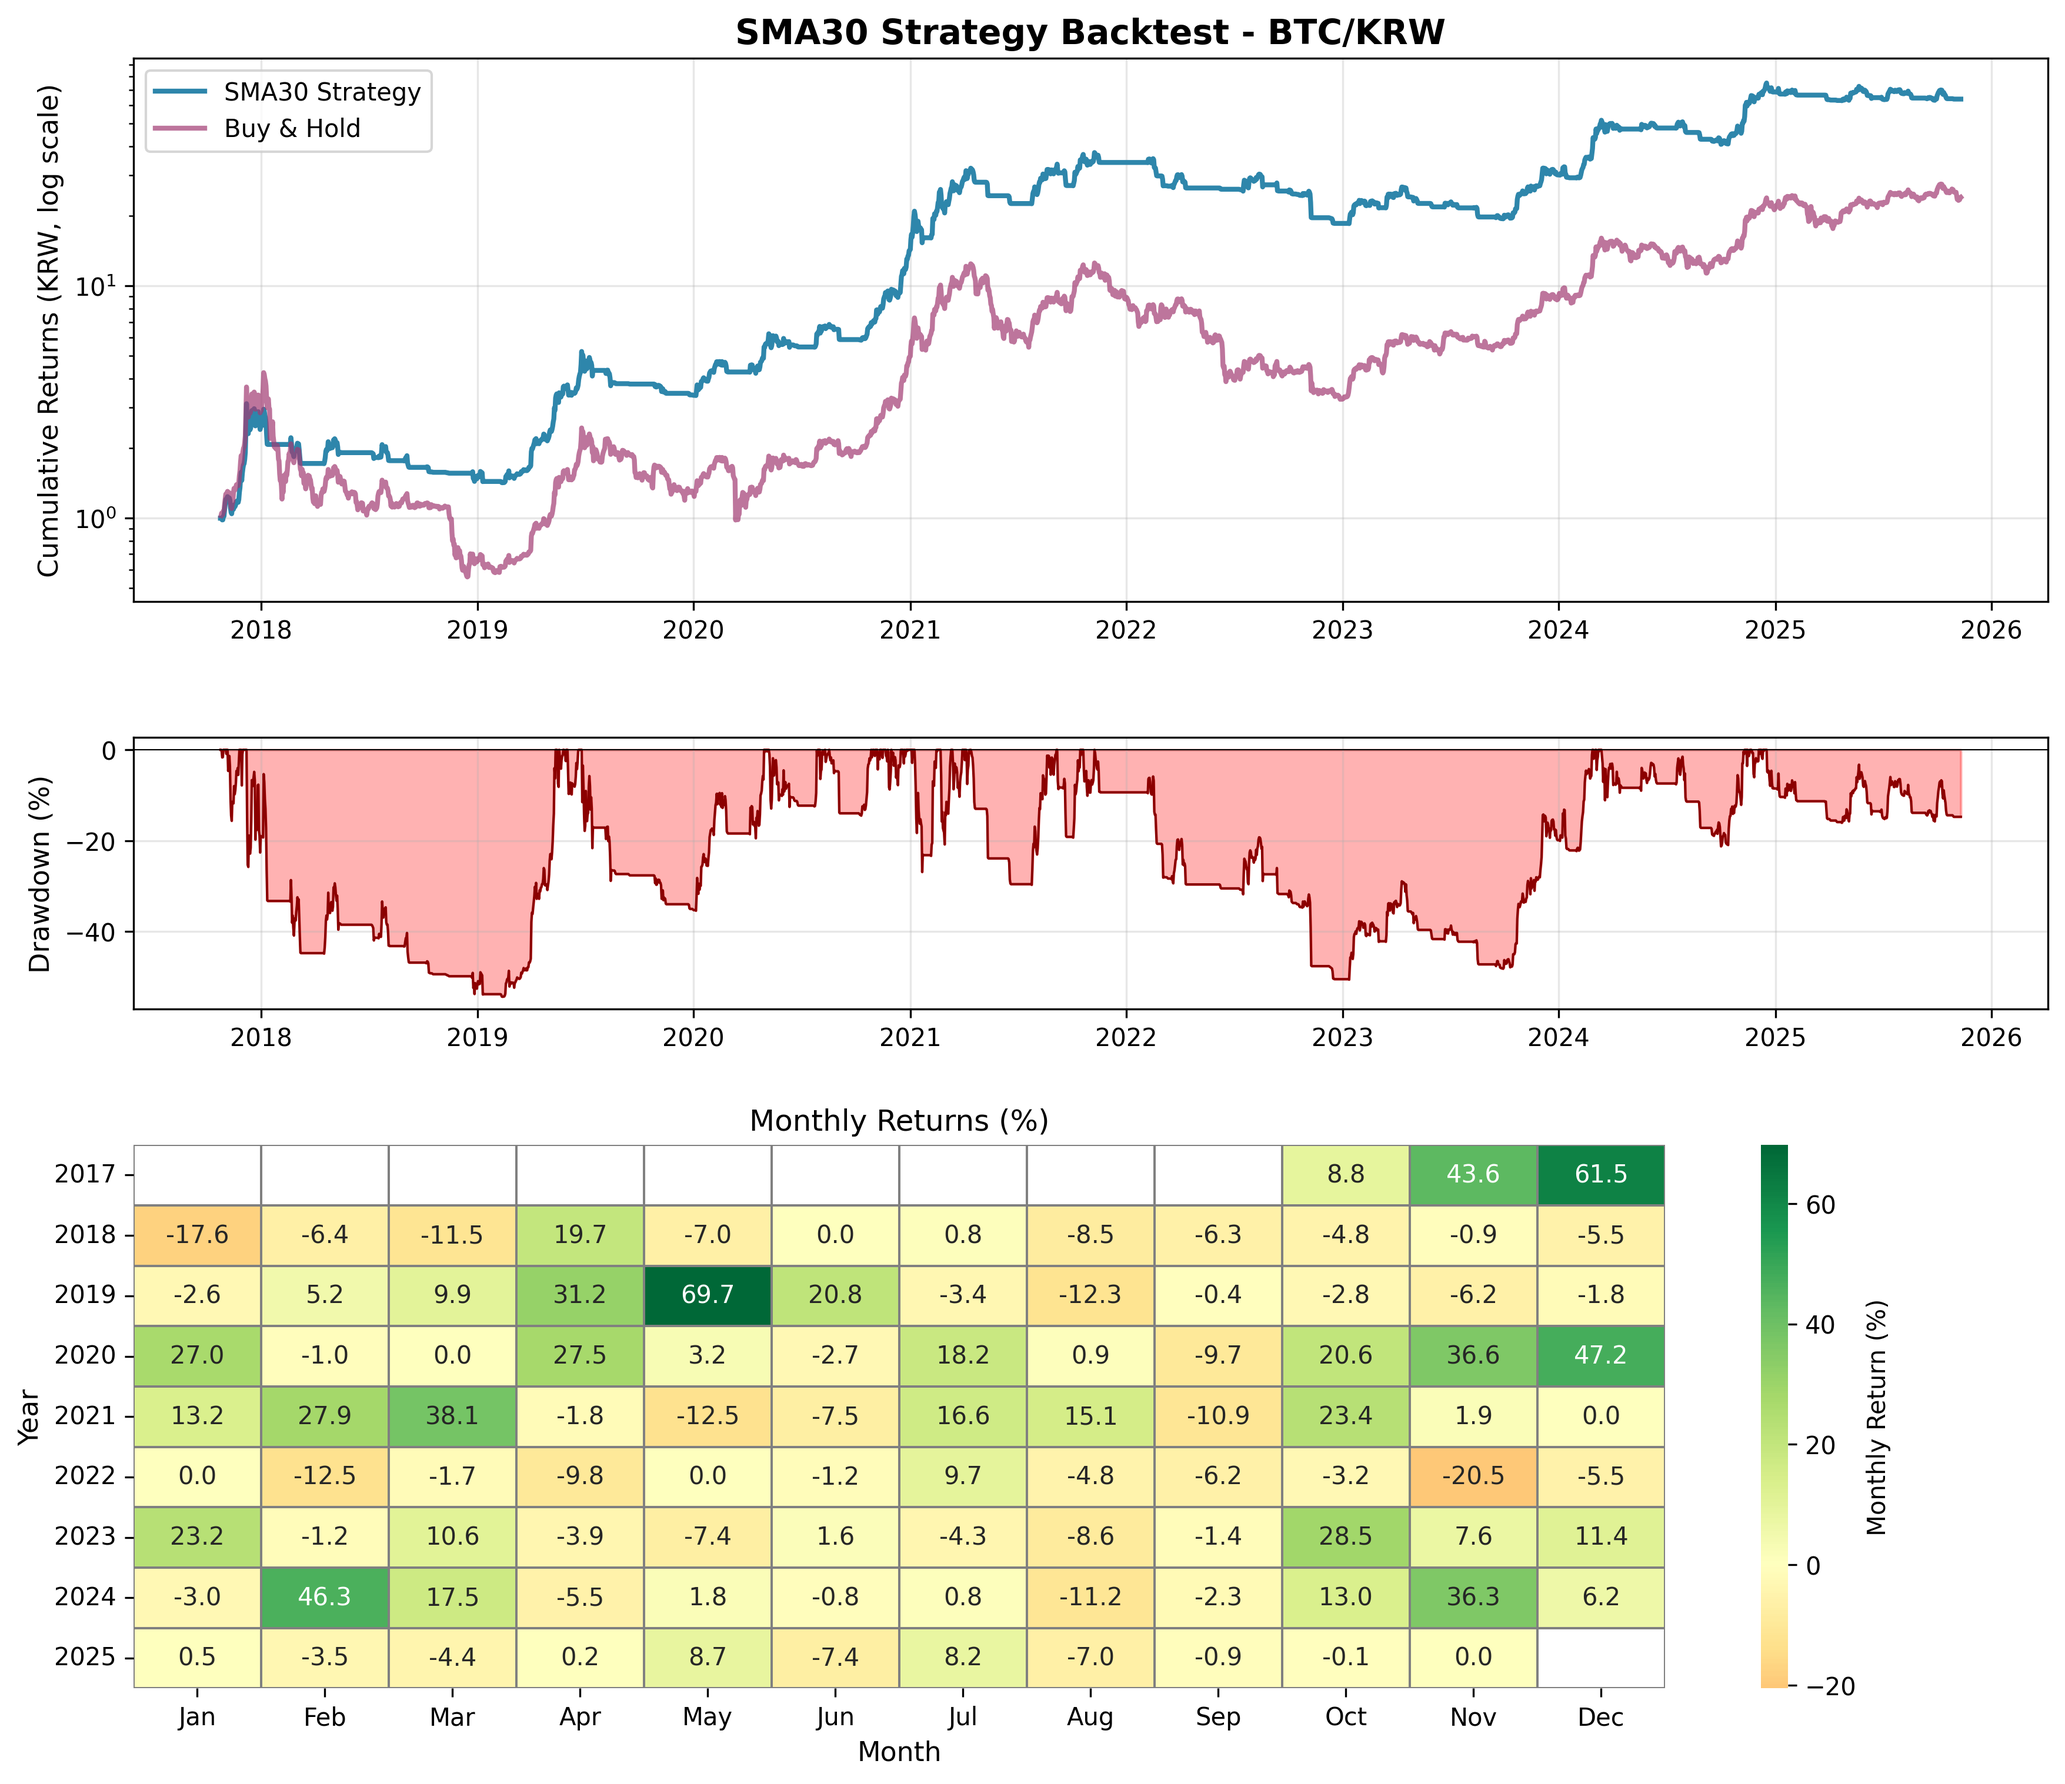
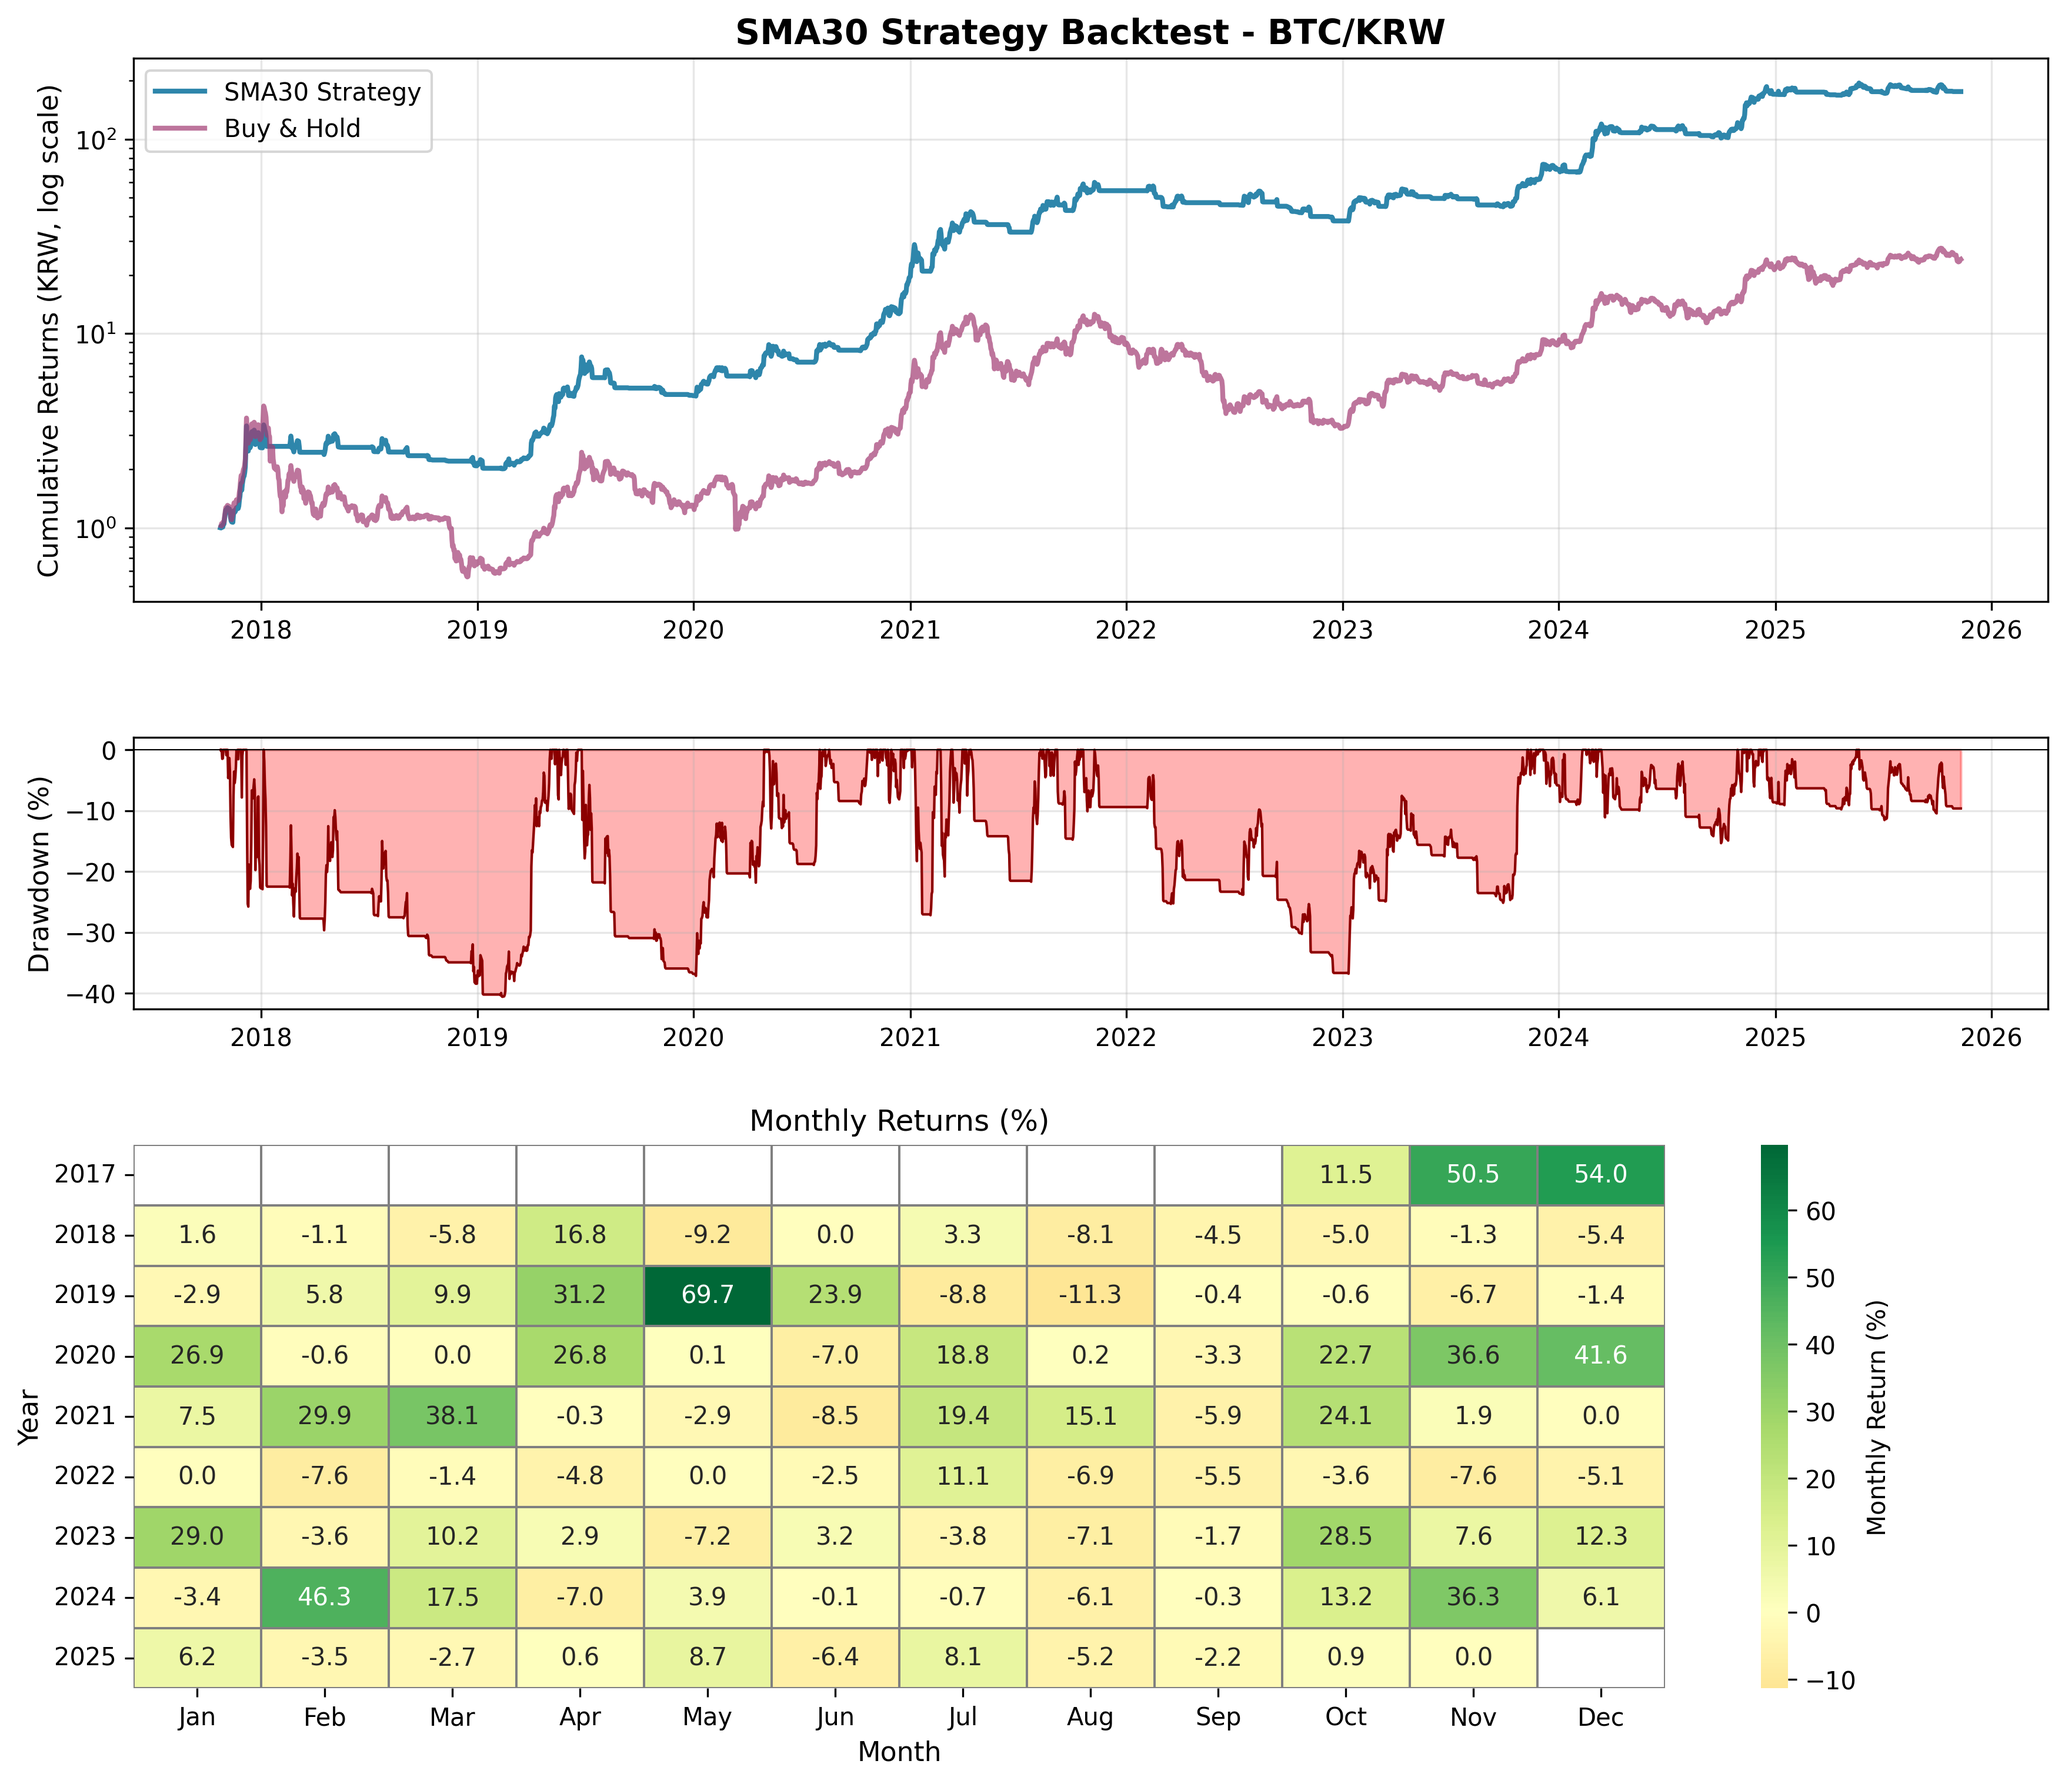
Fix critical double shift bug causing 2-day delay
Fixed critical logic error where shift(1) was applied twice:
- signal calculation: shift(1) applied ✓
- position calculation: shift(1) removed (was incorrectly applied)

Impact:
- Previous: 2-day delay (using day t-2 data on day t)
- Fixed: 1-day delay (using day t-1 data on day t)

Performance improvement:
- Total Return: 63.80x → 175.97x (+176%)
- CAGR: 67.61% → 90.13% (+22.5%p)
- MDD: -54.34% → -40.59% (+13.8%p improvement)

Both vectorized and loop methods validated (0.0000% difference)

diff --git a/sma30_backtest.py b/sma30_backtest.py
@@ -41,8 +41,9 @@ df['sma30'] = df['close'].rolling(window=SMA_WINDOW).mean()
 df = df.dropna()
 print(f"  유효 데이터: {len(df)}일 (SMA 계산 후)")
 
-# 벤치마크 신호: 전일종가 > SMA30 (전일 데이터 사용)
-# Look-ahead bias 방지: shift(1) 사용
+# 신호: 전일종가 > 전일SMA30
+# 전일(t-1)의 종가가 전일(t-1)의 SMA30보다 높으면 오늘(t) 매수
+# shift(1)을 여기서만 사용 (position에서는 shift 불필요)
 df['signal'] = (df['close'].shift(1) > df['sma30'].shift(1)).astype(int)
 
 print("\n[3] 백테스트 실행...")
@@ -55,8 +56,9 @@ print("  방법 1: 벡터화 연산 (Pandas/NumPy)")
 # 일간 수익률 계산
 df['daily_return'] = df['close'].pct_change()
 
-# 포지션 계산 (전일 신호 사용 - Look-ahead bias 방지)
-df['position'] = df['signal'].shift(1).fillna(0)
+# 포지션 = 신호 (shift는 이미 signal 계산 시 적용됨)
+# signal[t]는 이미 t-1일 데이터로 계산되었으므로, t일에 바로 사용 가능
+df['position'] = df['signal'].fillna(0)
 
 # 포지션 변화 계산 (매수/매도 시점 파악)
 df['position_change'] = df['position'].diff()
@@ -111,11 +113,8 @@ for i in range(len(df)):
         position_list.append(0)
         continue
 
-    # 전일 신호 기반으로 오늘의 포지션 결정
-    if i == 1:
-        target_position = 0  # 첫날은 신호 없음
-    else:
-        target_position = df['signal'].iloc[i-1]
+    # 오늘의 신호 (이미 전일 데이터로 계산됨)
+    target_position = df['signal'].iloc[i]
 
     # 오늘 가격 변화
     price_return = df['daily_return'].iloc[i]
